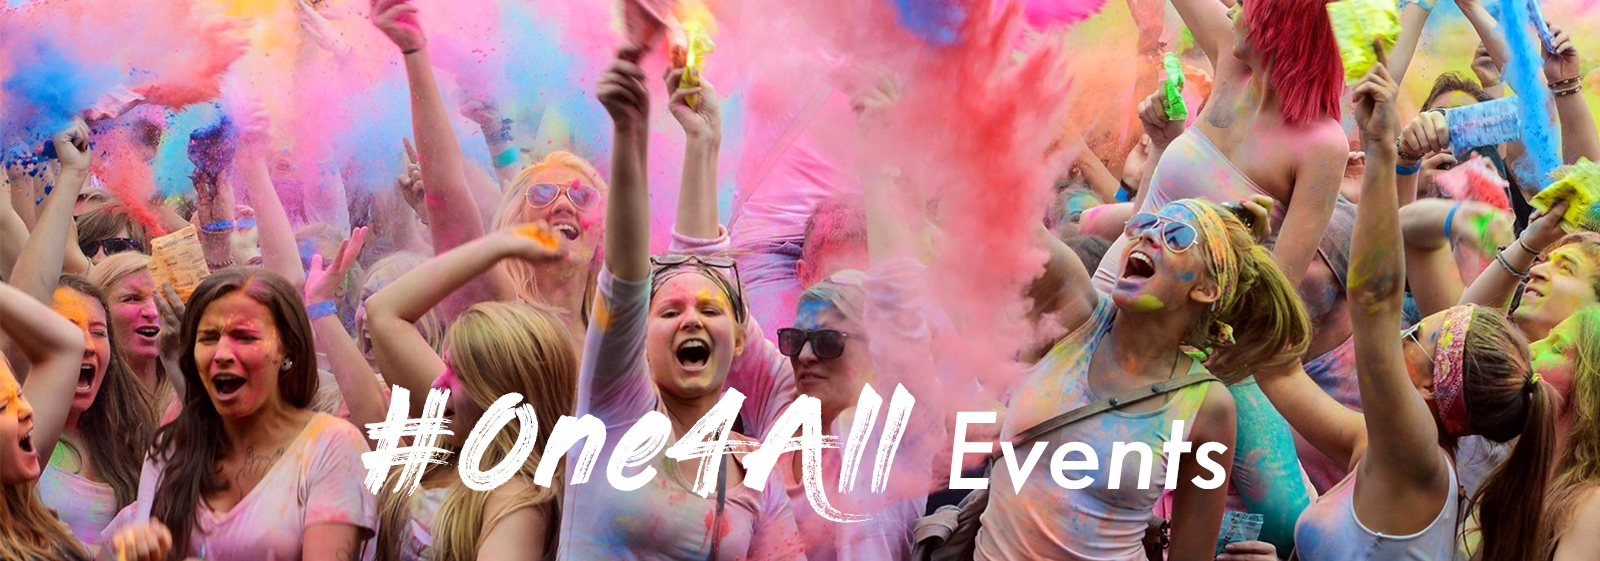
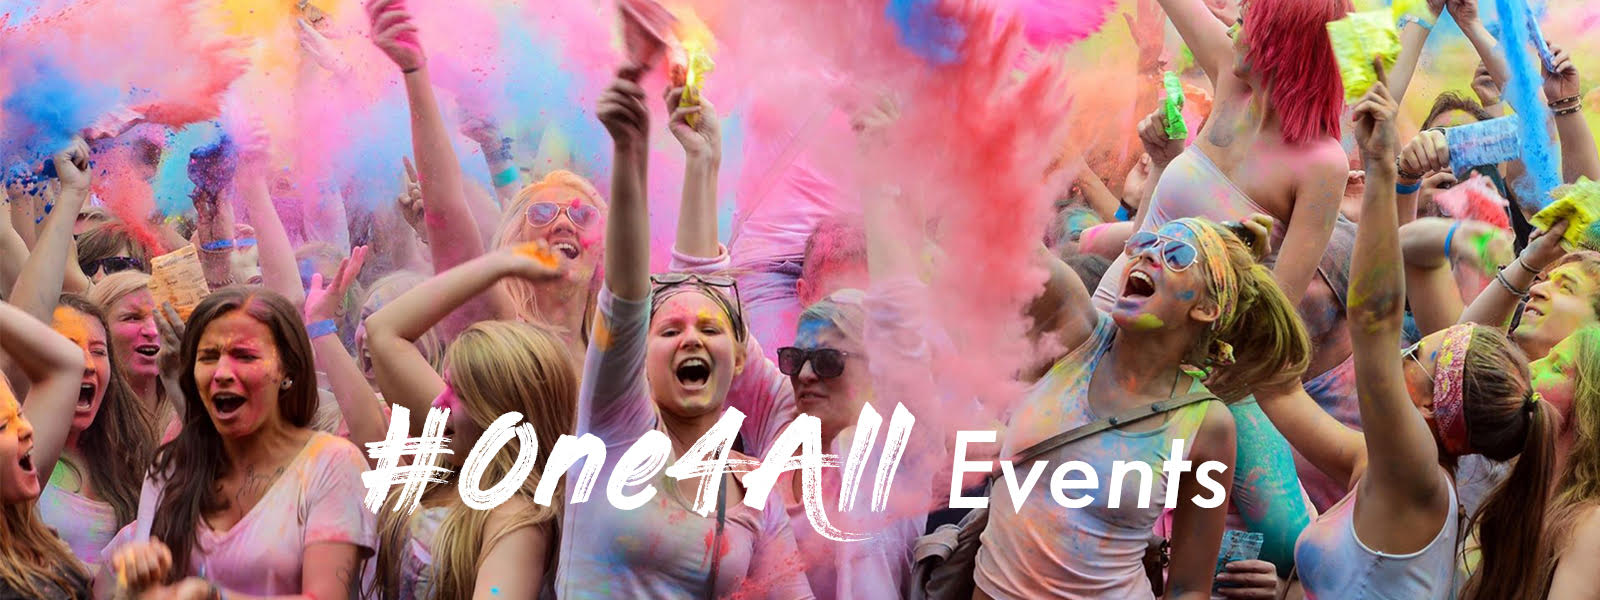
objectif

diff --git a/index.html b/index.html
@@ -391,7 +391,7 @@
       <p>#One4All se veut être un mouvement fédérateur à fort potentiel de communication.</p>
       <p>Suivez notre actualité et participez à nos évènements haut en couleur !!!</p>
       <div class="containerIllustration2">
-        <img src="assets/img/banniereGiro.jpg" alt="">
+        <img src="assets/img/Slide-Nos-evenements.jpg" alt="">
       </div>
       <div class="containerButton">
         <a class="btnPrimary" href="">Découvir nos événements</a>

diff --git a/assets/css/style.scss b/assets/css/style.scss
@@ -1835,6 +1835,7 @@ footer{
         border-radius: 20px;
         display: flex;
         align-items: center;
+        margin-bottom: 50px;
   
         i{
           font-size: 3.5rem;

diff --git a/assets/css/style.css b/assets/css/style.css
@@ -1667,6 +1667,7 @@ footer .logo a {
   border-radius: 20px;
   display: flex;
   align-items: center;
+  margin-bottom: 50px;
 }
 .don .containerDon form span i {
   font-size: 3.5rem;
